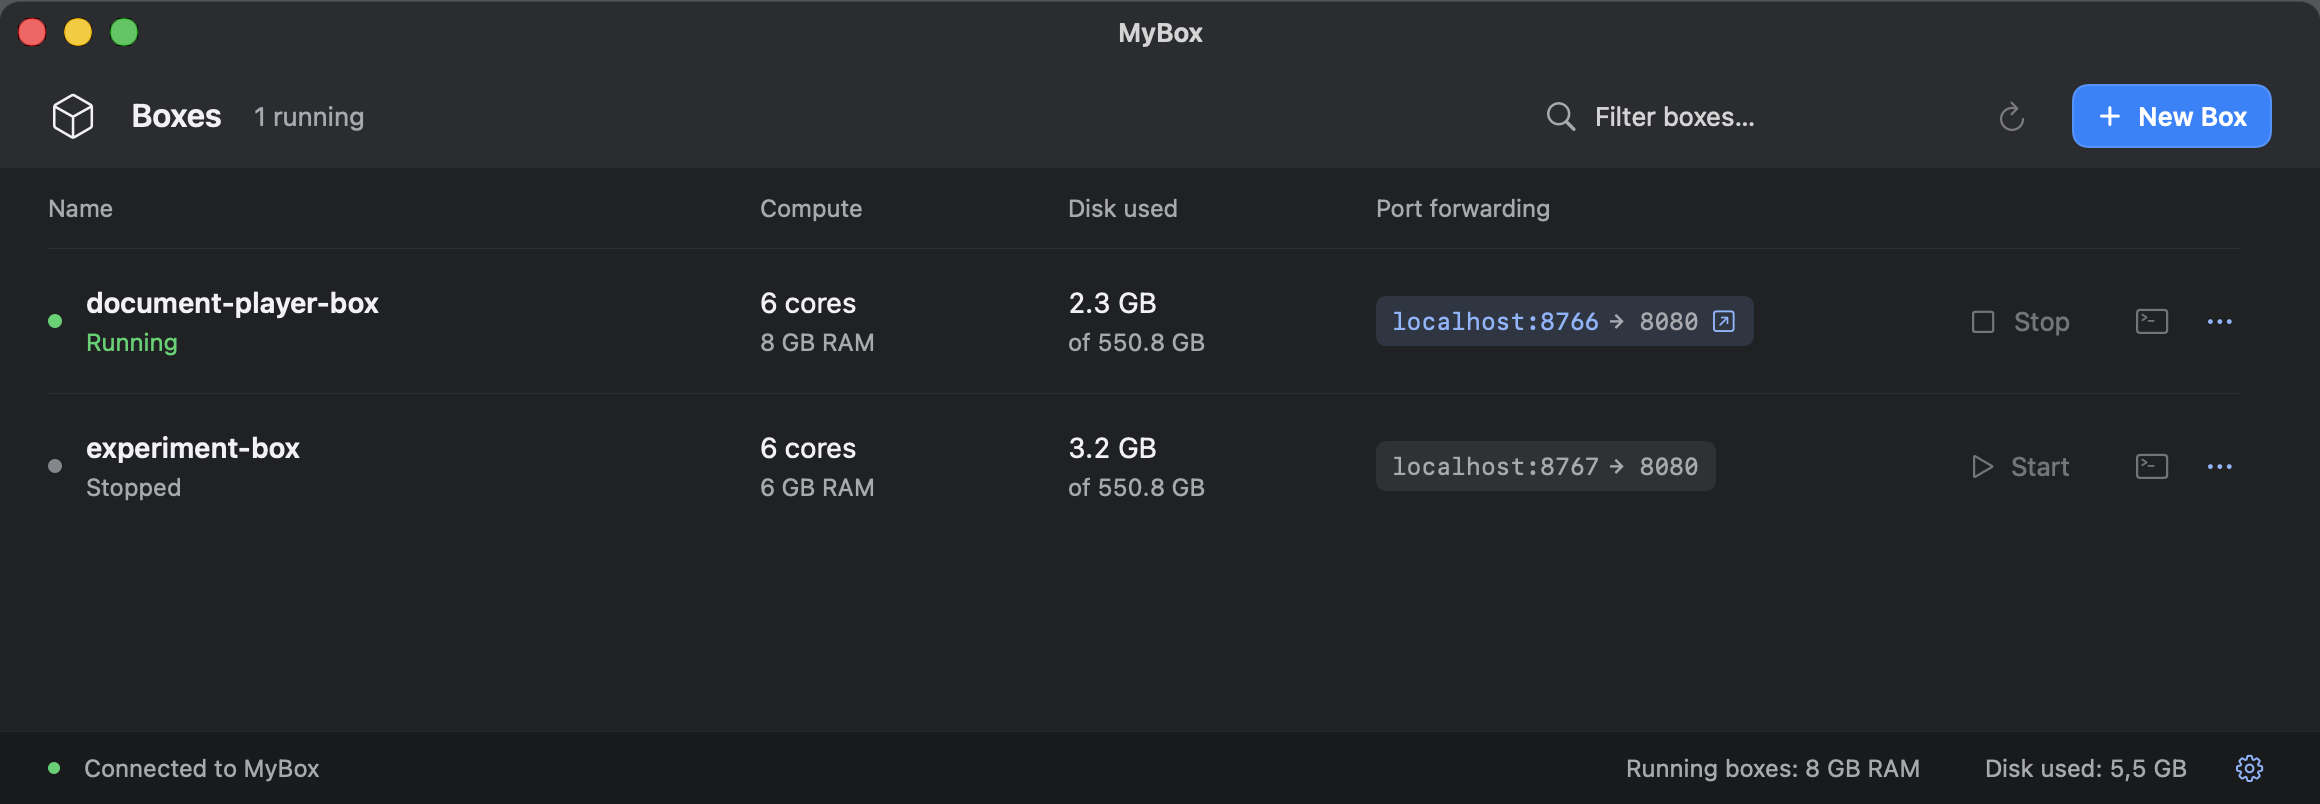
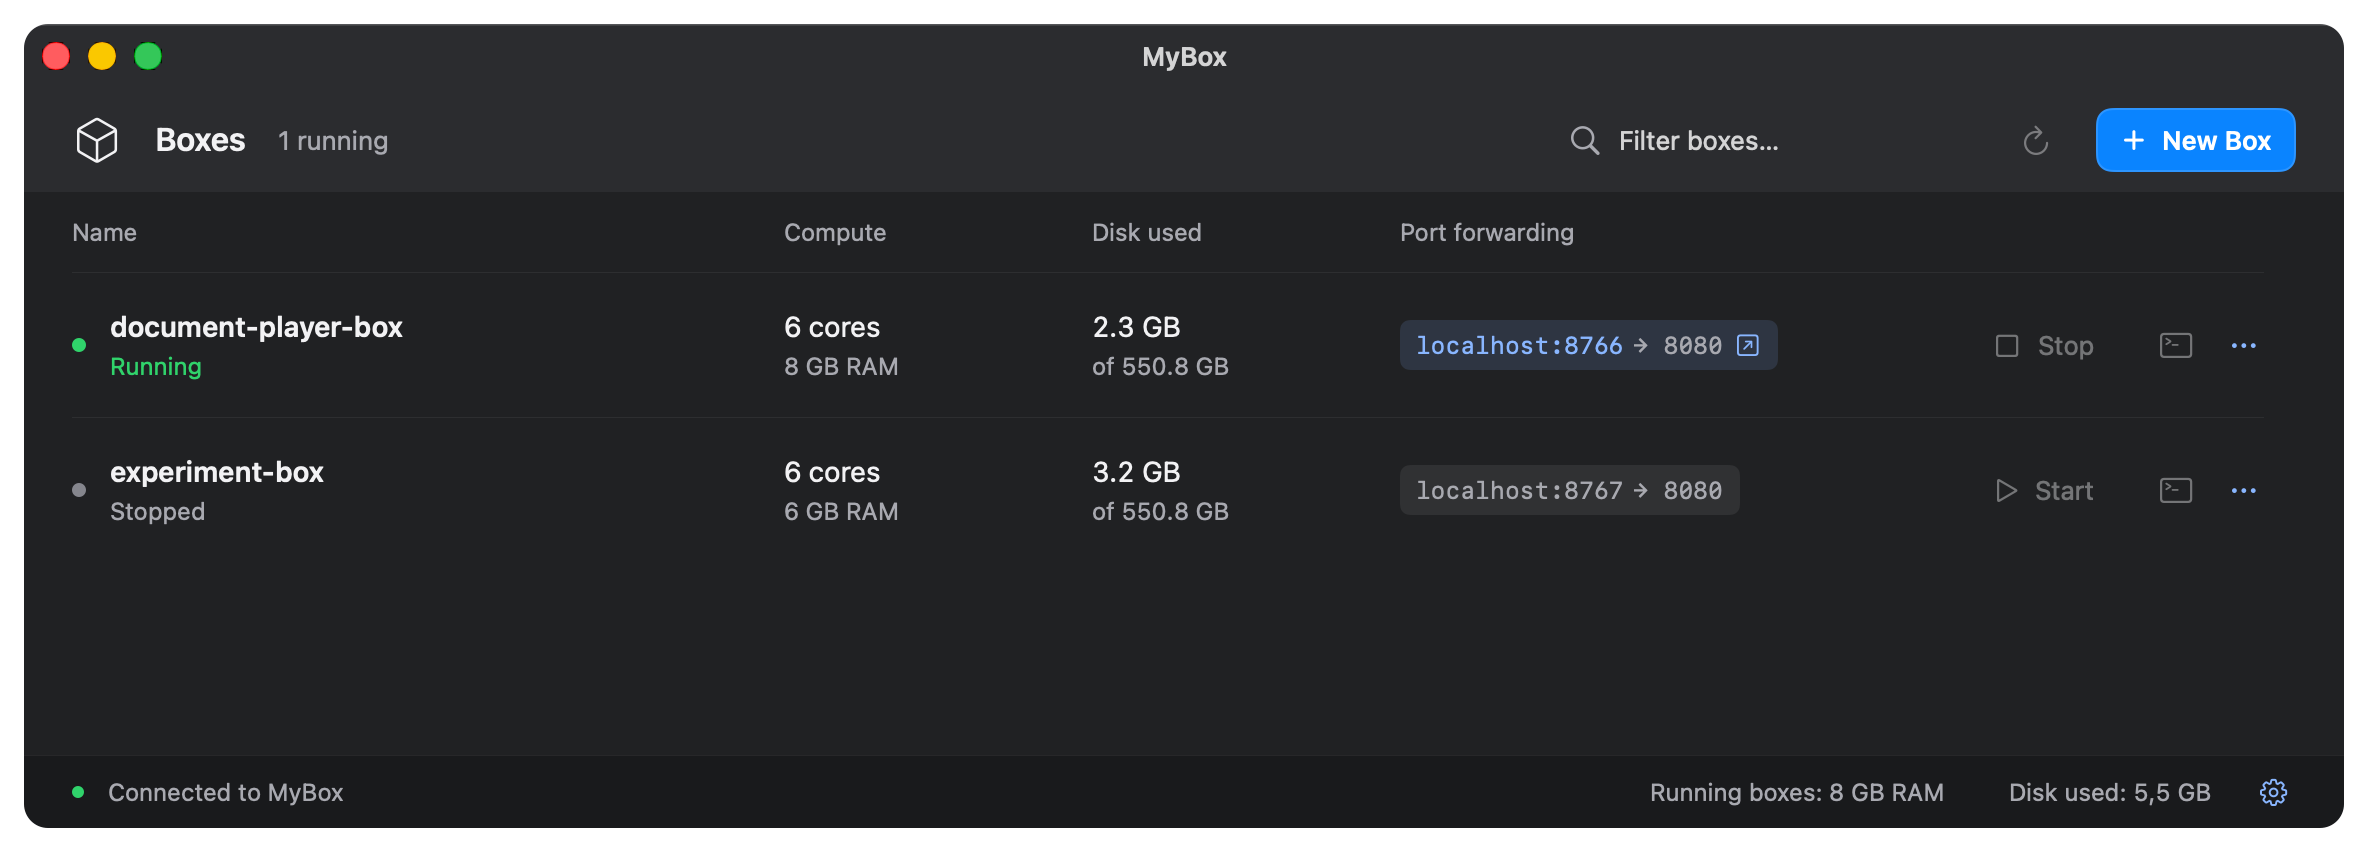
Fix README screenshot corners and Retina rendering

diff --git a/desktop/Sources/MyBoxApp.swift b/desktop/Sources/MyBoxApp.swift
@@ -39,6 +39,11 @@ final class AppDelegate: NSObject, NSApplicationDelegate {
 
 @MainActor
 private final class BoxesWindow: NSWindow {
+    override var backingScaleFactor: CGFloat {
+        // Keep demo captures at Retina resolution even on a 1× display.
+        CommandLine.arguments.contains("--screenshot") ? 2 : super.backingScaleFactor
+    }
+
     override func resignKey() {
         super.resignKey()
         // The custom filter outline should also disappear when another window is clicked.
@@ -131,12 +136,47 @@ final class AppController: NSObject, NSWindowDelegate {
         window?.setContentSize(size)
         DispatchQueue.main.asyncAfter(deadline: .now() + 1) {
             let captureView = kind == "window" ? self.window?.contentView?.superview : self.window?.contentView
-            guard let view = captureView,
-                  let bitmap = view.bitmapImageRepForCachingDisplay(in: view.bounds) else { NSApp.terminate(nil); return }
+            guard let view = captureView else { NSApp.terminate(nil); return }
             view.layoutSubtreeIfNeeded()
-            view.cacheDisplay(in: view.bounds, to: bitmap)
-            try? bitmap.representation(using: .png, properties: [:])?.write(to: URL(fileURLWithPath: path))
+            guard let bitmap = self.screenshotBitmap(of: view) else { NSApp.terminate(nil); return }
+            let output = kind == "window" ? self.windowScreenshot(bitmap, size: view.bounds.size) : bitmap
+            try? output?.representation(using: .png, properties: [:])?.write(to: URL(fileURLWithPath: path))
             NSApp.terminate(nil)
         }
+    }
+
+    private func screenshotBitmap(of view: NSView) -> NSBitmapImageRep? {
+        guard let bitmap = NSBitmapImageRep(bitmapDataPlanes: nil,
+                                           pixelsWide: Int((view.bounds.width * 2).rounded()),
+                                           pixelsHigh: Int((view.bounds.height * 2).rounded()),
+                                           bitsPerSample: 8, samplesPerPixel: 4, hasAlpha: true,
+                                           isPlanar: false, colorSpaceName: .deviceRGB,
+                                           bytesPerRow: 0, bitsPerPixel: 0) else { return nil }
+        bitmap.size = view.bounds.size
+        view.cacheDisplay(in: view.bounds, to: bitmap)
+        return bitmap
+    }
+
+    private func windowScreenshot(_ bitmap: NSBitmapImageRep, size: NSSize) -> NSBitmapImageRep? {
+        // View caching includes the rectangular backing behind the native window corners.
+        // Clip the export on a transparent canvas so it fits both light and dark READMEs.
+        let margin: CGFloat = 12
+        let scale = CGFloat(bitmap.pixelsWide) / size.width
+        let canvas = CGSize(width: size.width + 2 * margin, height: size.height + 2 * margin)
+        guard let source = bitmap.cgImage,
+              let context = CGContext(data: nil, width: Int((canvas.width * scale).rounded()),
+                                      height: Int((canvas.height * scale).rounded()),
+                                      bitsPerComponent: 8, bytesPerRow: 0,
+                                      space: source.colorSpace ?? CGColorSpaceCreateDeviceRGB(),
+                                      bitmapInfo: CGImageAlphaInfo.premultipliedLast.rawValue) else { return nil }
+        context.scaleBy(x: scale, y: scale)
+        let frame = CGRect(origin: CGPoint(x: margin, y: margin), size: size)
+        context.addPath(CGPath(roundedRect: frame, cornerWidth: 12, cornerHeight: 12, transform: nil))
+        context.clip()
+        context.draw(source, in: frame)
+        guard let image = context.makeImage() else { return nil }
+        let output = NSBitmapImageRep(cgImage: image)
+        output.size = canvas
+        return output
     }
 }

diff --git a/desktop/README.md b/desktop/README.md
@@ -100,7 +100,9 @@ Capture views: `window` (including the native title bar), `menu`, `create`, `cop
 Add `--demo-scenario stopped`, `many`, `empty`, `unknown`, or `error` to inspect
 edge cases. Scenarios only apply with `--demo`. Each capture process exits after writing its PNG.
 Interactive preview mode is labeled and disables operations against real boxes.
-Screenshot captures omit the preview labels.
+Screenshot captures omit the preview labels and render at twice the view's resolution.
+The `window` capture includes transparent rounded corners and a small outer margin
+so it displays cleanly against both light and dark page backgrounds.
 
 The CLI and desktop app stay in one repository, and the planned installer includes both. `desktop/` owns the
 app's sources, resources, icon generator, build, and tests. `Shared/BoxList.swift`
